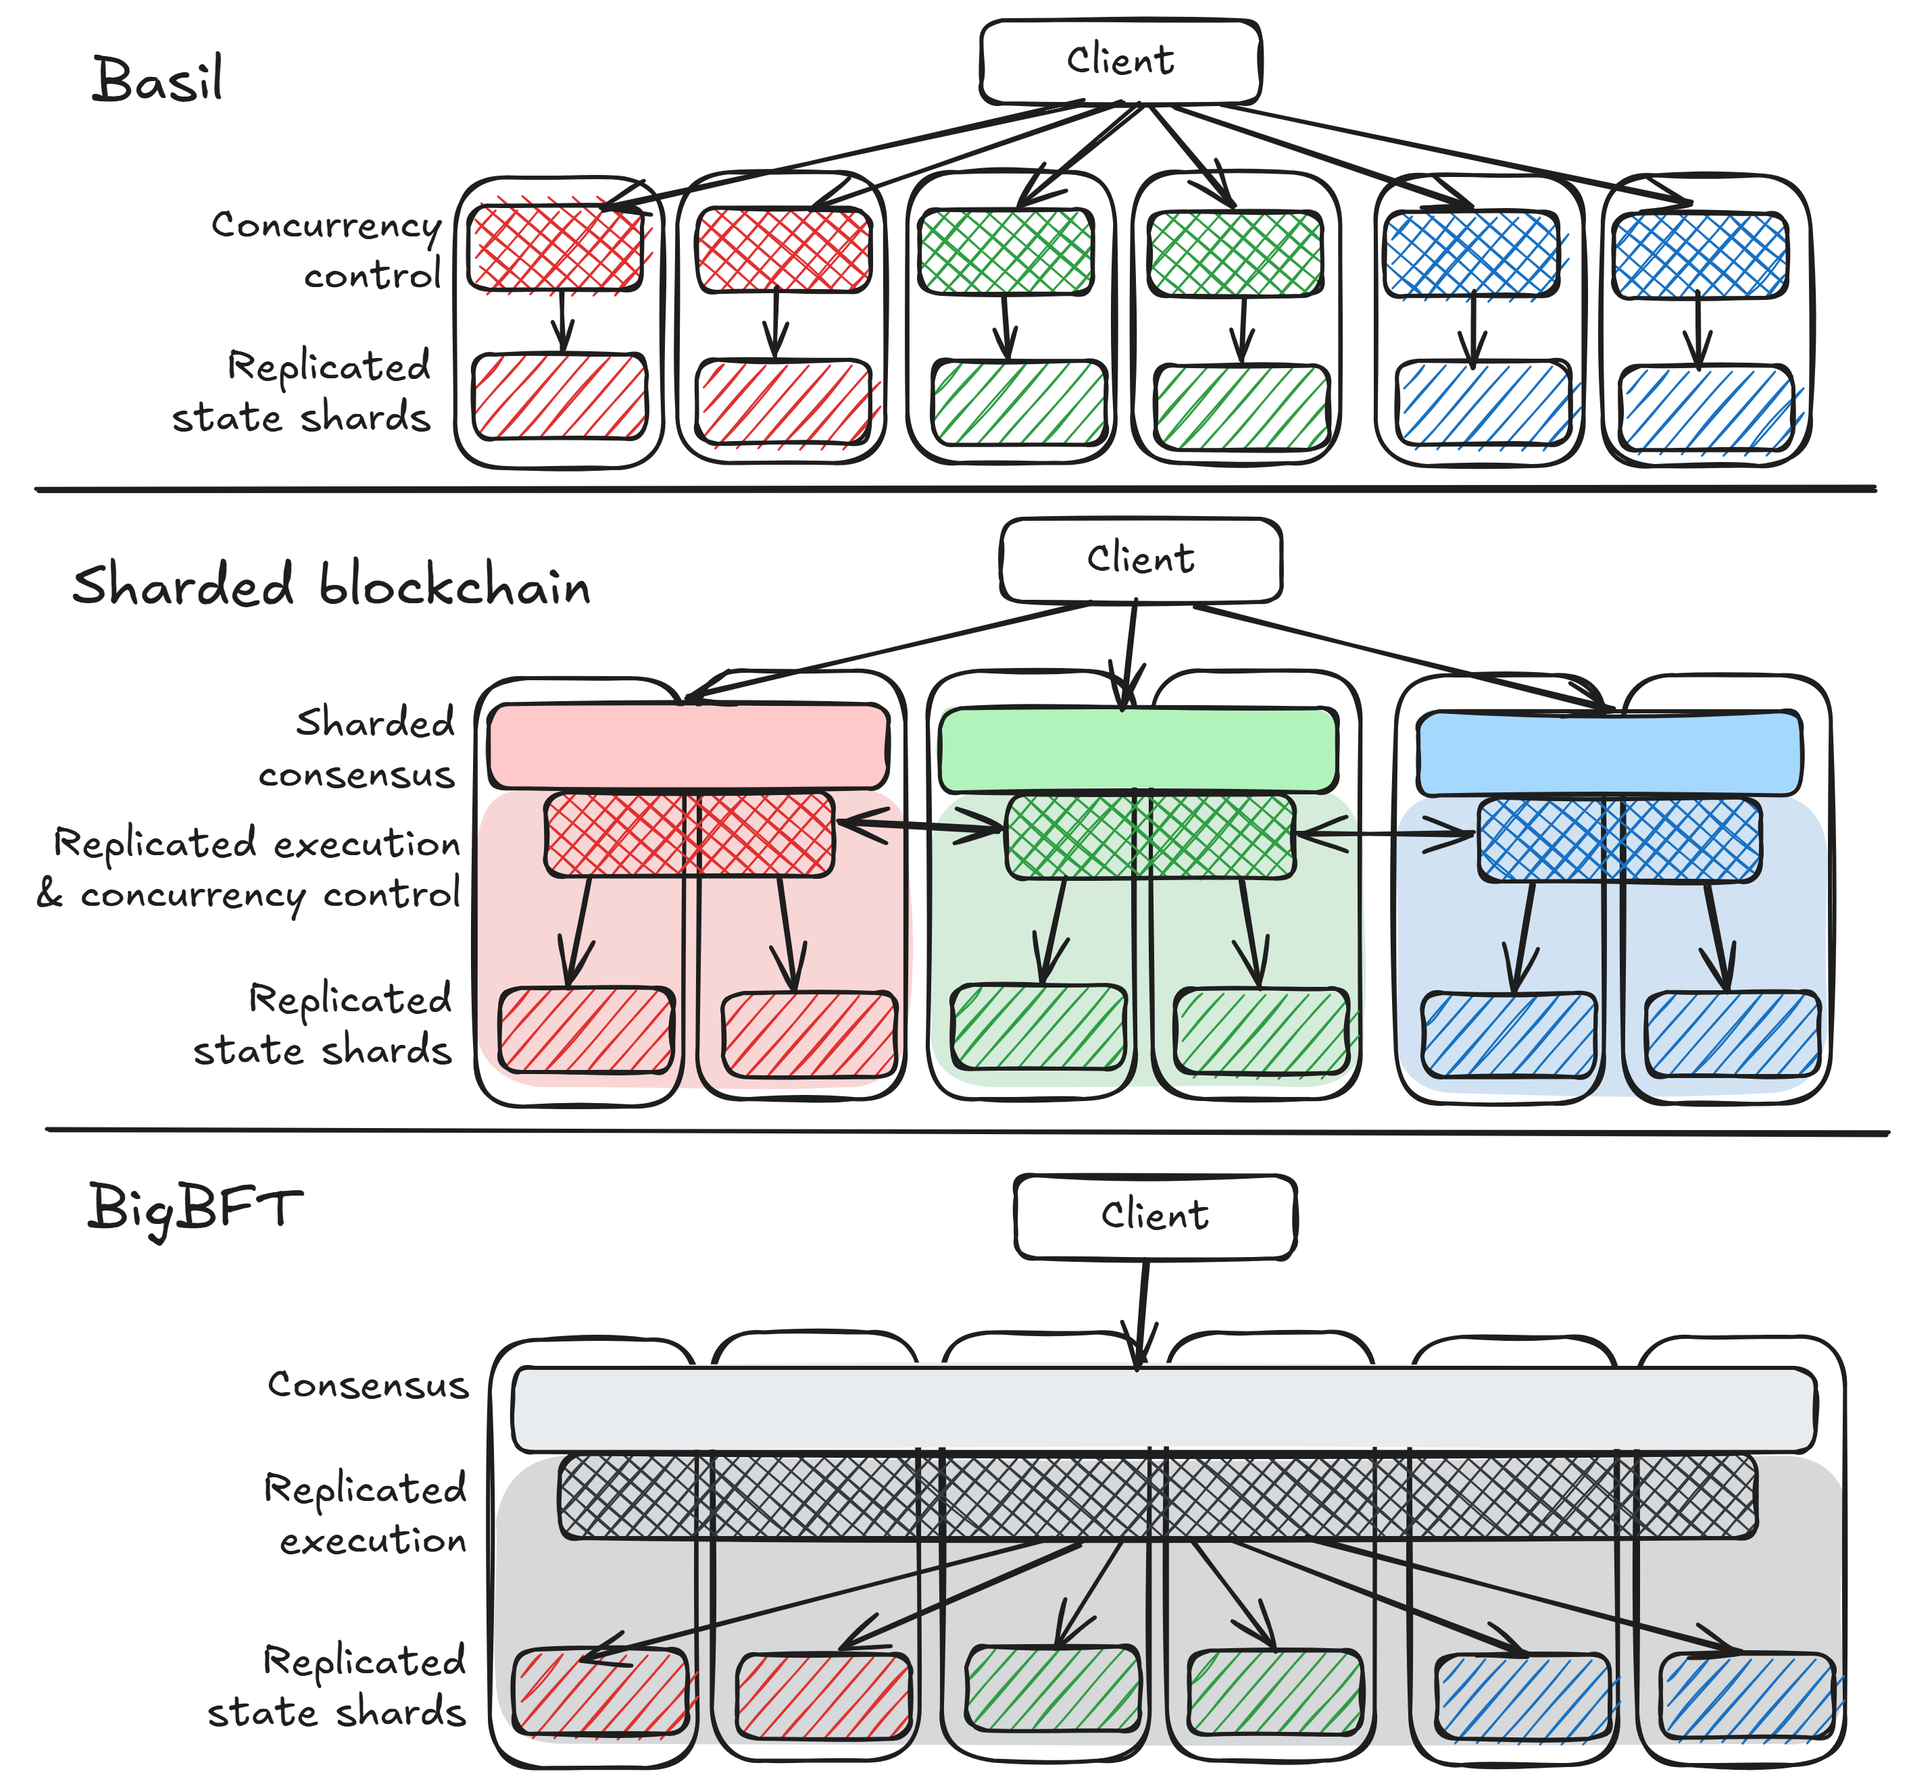
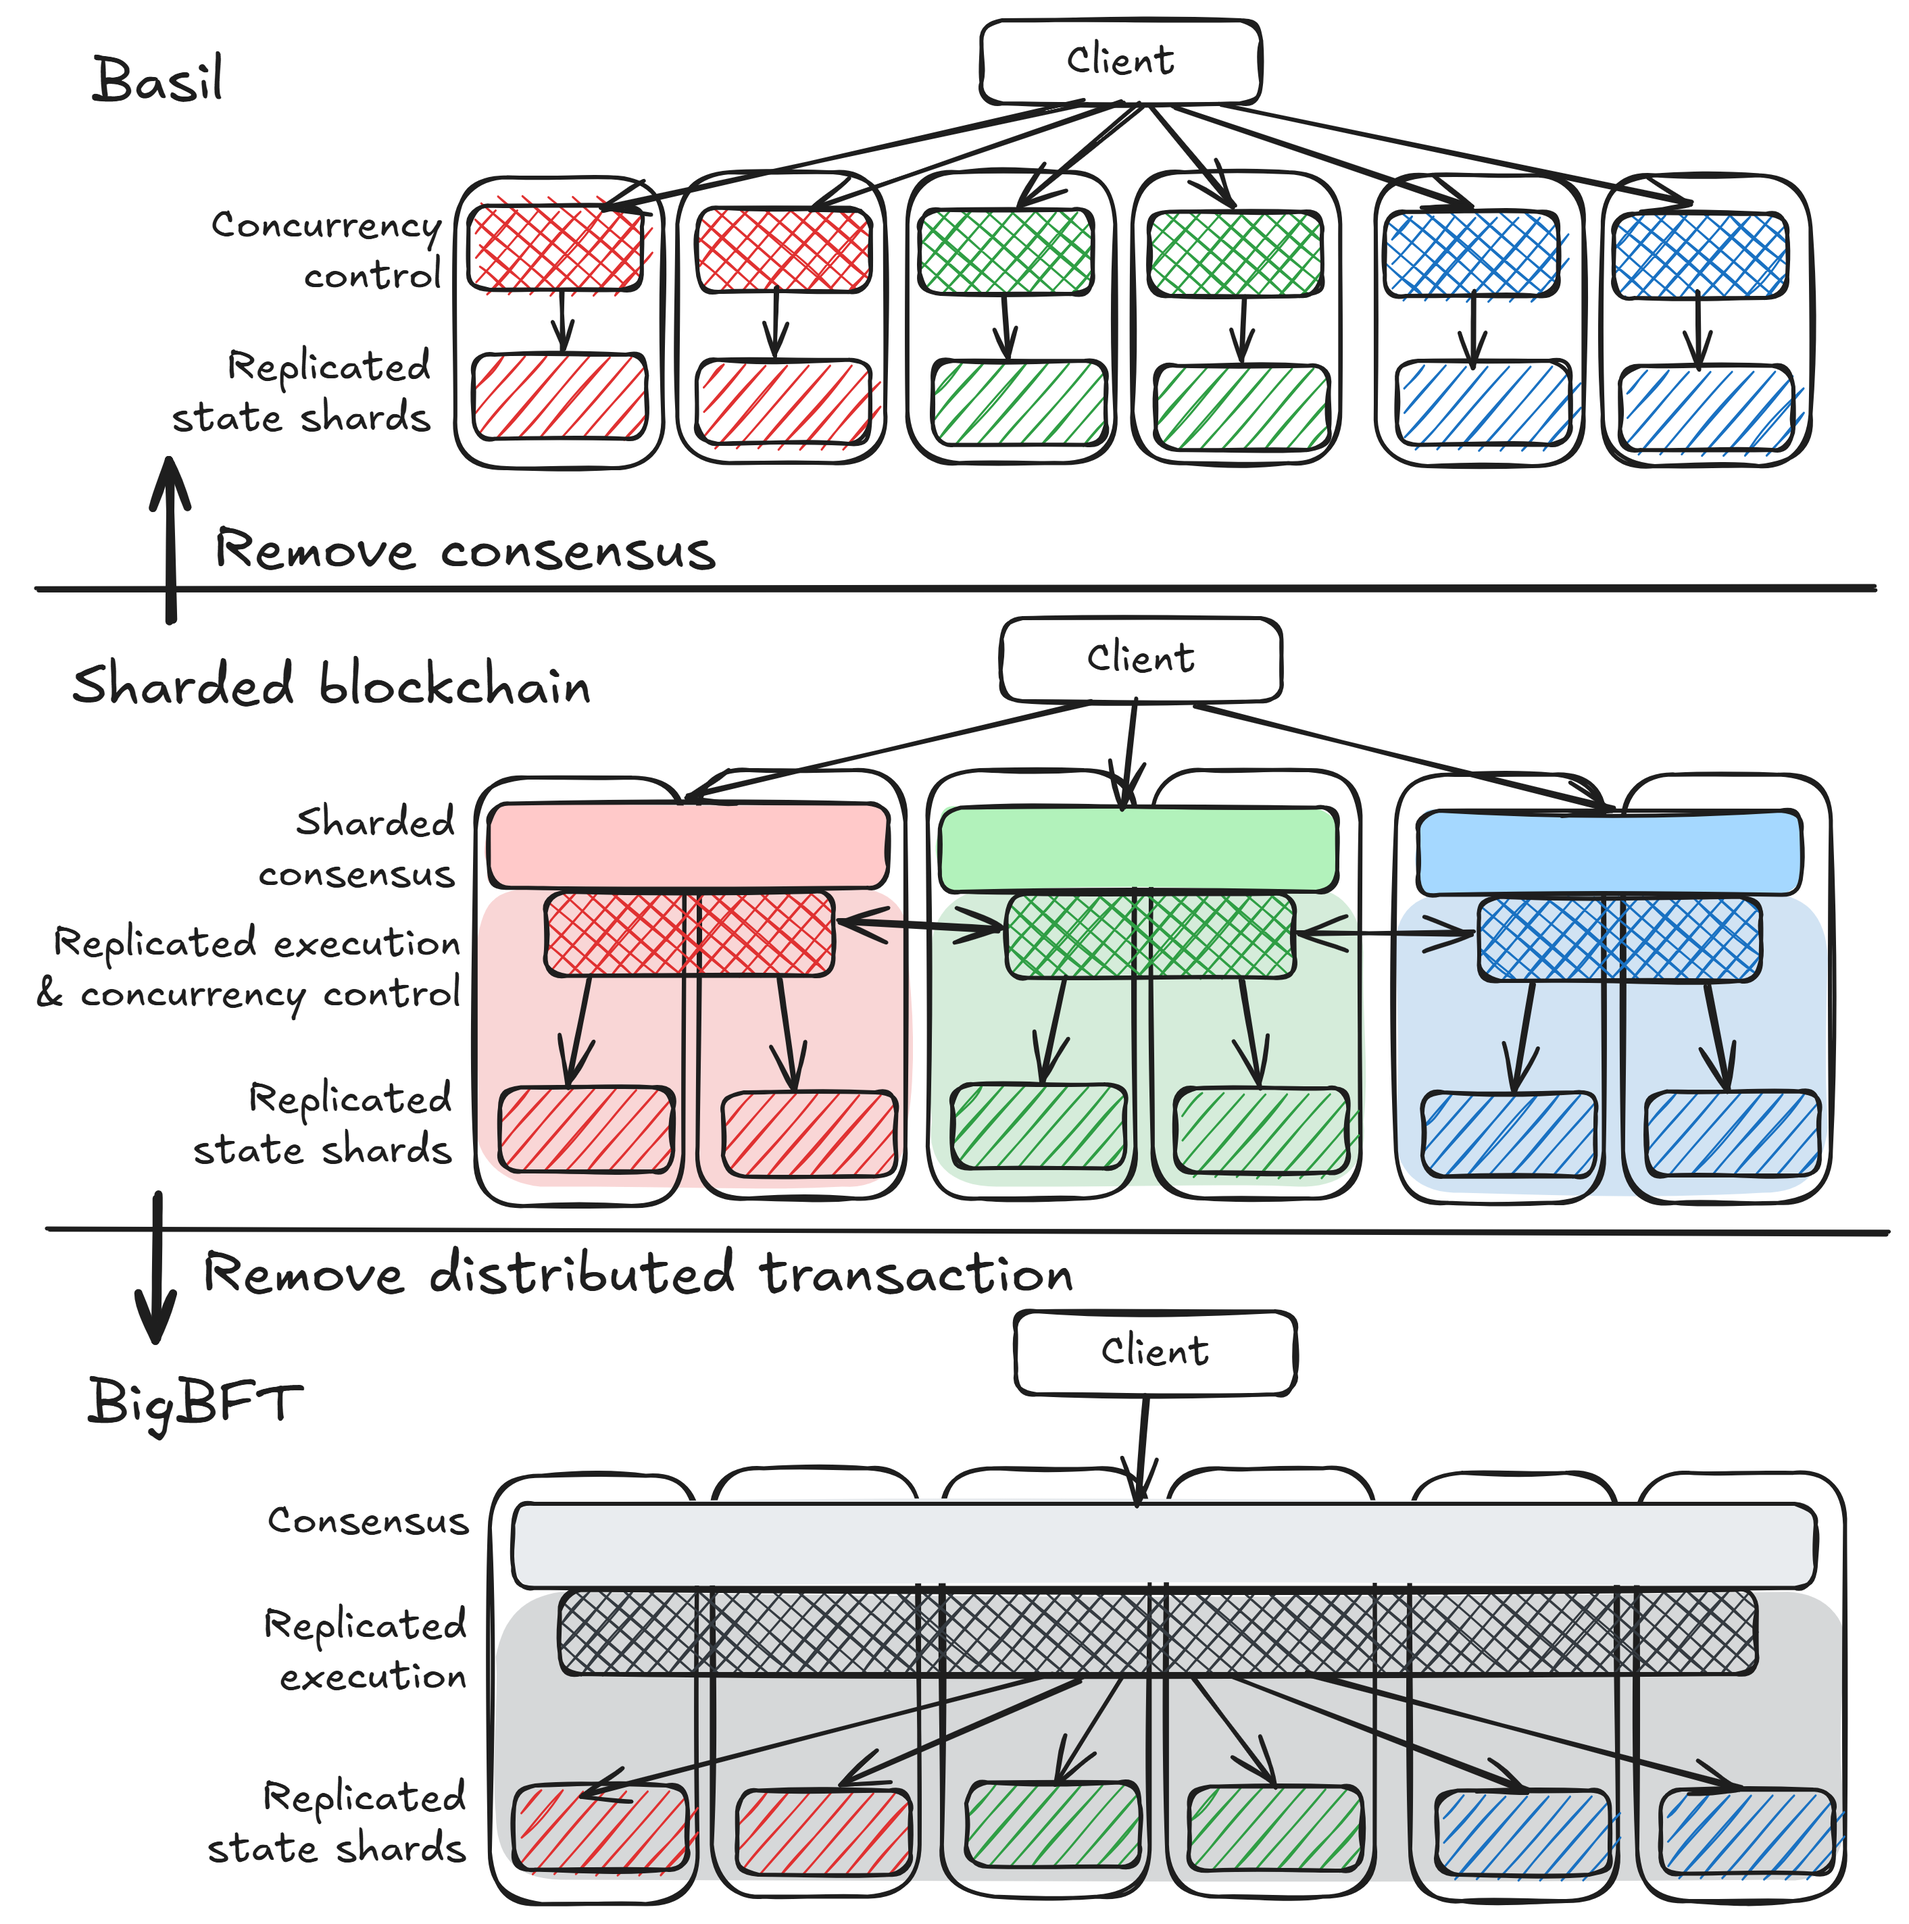
intro: revise pass

Changed region(s): [[0.0, 0.0, 0.9968, 0.9913], [0.0312, 0.031, 0.1246, 0.062]]

diff --git a/sections/introduction.tex b/sections/introduction.tex
@@ -21,27 +21,29 @@ The subtle performance of Basil, along with its complex protocol, both implies t
     \label{fig:approach-compare}
 \end{figure}
 
-In this work, we propose a novel approach of scaling BFT systems by sharding and parallelizing \emph{only} the state access.
+In this work, we propose a novel approach of scaling BFT systems by sharding the state but not the execution.
 We observe that consensus protocols have achieved significant improvements in performance and scalability recently.
 The most advanced consensus protocols can scale up throughput with the number of nodes while maintaining low latency, demonstrating that BFT systems can benefit from totally ordered operations without introducing performance bottlenecks.
-Moreover, as shown by previous works, the state access takes more than 80\% of the total processing time~\cite{li2024lvmt}.
-Based on these observations, we propose to shard the state data and balance the state access load across multiple nodes, while still employing a consensus protocol as the \emph{control plane} that maintains a total ordering of all operations and \emph{governs} parallel state access, as shown in \cref{fig:approach-compare}.
-Given a consistent sequence of blocks, the correct nodes can issue consistently concurrent state access requests and resolve intra- and inter-block dependencies identically without any further communication, a challenge unique to Basil due to its lack of total ordering.
-To scale the state access, each data partition is replicated by a fault-tolerant node shard, and the nodes of the other shards access it via network.
-Concurrent processing is achieved by pipelining the state access of different blocks and concurrently issuing state access requests to different shards, along with the concurrent dissemination and ordering of blocks by the consensus protocol.
+Moreover, as shown by previous works, the state access takes more than 80\% of the total execution time~\cite{li2024lvmt}.
+So we can achieve substantial performance gains as long as the state access is sharded and parallelized, even if the consensus and execution are not.
+Based on these observations, we propose to shard the state data and balance the state access load across multiple node shards, while still employing a consensus protocol as the \emph{control plane} that maintains a total ordering of all operations and \emph{governs} parallel state access.
 
-Following this approach, we design \sys, a robustly high performance BFT transactional store leveraging total ordering and data sharding.
+As shown in \cref{fig:approach-compare}, this work proposes the opposite idea to Basil regarding improving the redundant coordination overhead of intra-committee consensus and inter-committee distributed transaction protocols incurred by the sharded blockchains.
+Basil chooses to remove the consensus protocol and relies on clients to coordinate the distributed transactions, so its node shards have to tolerate arbitrarily many Byzantine clients, leading to various shortcomings in performance and security.
+In contrast, we demonstrate that BFT systems can also be scaled by removing the distributed transaction protocols and preserving the consensus protocol and the replicated state partitions.
+The intuition is that the consensus protocol isolates the performance implications that Byzantine clients can cause, and the replicated nodes, executing a totally ordered sequence of transactions, are the only ``clients'' that access the state shards.
+Since the majority of the nodes are correct and replicate the same state access sequence, they can be treated as a single \emph{logical} client submitting transactions per block execution, so the shards can be simple data plane that does not need to handle any concurrent transaction or Byzantine clients.
+At the same time, the nodes receive the same total order of transactions from the consensus protocol, so they can resolve the dependencies and maintain intermediate states locally and issue consistent state access requests to the shards independently without the need of further coordination.
+
+Following this intuition, we design \sys, a robustly high performance BFT transactional store leveraging total ordering and data sharding.
 \sys replicates each state partition to different node shards, each of which can tolerate $f$ Byzantine faults over a total of $3f+1$ nodes.
-This data partition scheme is identical to the ones of Basil and prior sharded blockchains, guaranteeing the same overhead of state maintenance.
+This data partition scheme is identical to the ones of Basil and prior sharded blockchains, guaranteeing the same state maintenance complexity.
 However, in \sys, the nodes from all shards participate in the \emph{same} consensus protocol, ordering all transactions before they are executed by \emph{all} nodes.
-The \sys nodes then execute the transactions in the same way of Basil's clients, by first fetching the state data from the corresponding shards, then executing the transactions and buffering the updates locally, and finally posting back the state updates.
-However, the shards of Basil must be able to handle arbitrarily concurrent state accesses from potentially Byzantine clients, while in \sys, a majority of the nodes issues replicated state access requests, and the shards can be simple data plane that always responds requests with current state data, as the nodes will resolve the dependencies and conflicts by themselves.
-Thus, by employing a consensus protocol, \sys not only greatly simplifies the protocol design and implementation, but also eliminates all the performance implications of Byzantine nodes and clients and contenting workloads, reliably achieving high performance in all scenarios with only $3f+1$ nodes.
-Comparing to sharded blockchains, the universal total ordering of \sys eliminates the necessity of cross-shard coordination, hence avoiding the associated performance and isolation penalties.
+\sys can employ any modern BFT consensus protocol to atomically broadcast transaction blocks.
+The \sys nodes then execute the blocks similarly to Basil's clients, by first fetching the state data from the corresponding shards, then executing the transactions and buffering the updates locally, and finally posting back the state updates.
+The nodes wait for $f+1$ matching fetching responses to ensure integrity and freshness of the fetched data, while the shards wait for $Cf+1$ matching updates before applying them to the state, where $C$ is the number of shards.
+\sys's design falls into the middle ground between Basil and sharded blockchains regarding modularity.
+Comparing to Basil's monolithic approach, \sys is much more modular that only modifies the state management layer of a blockchain to optimize the scalability bottleneck; comparing to sharded blockchains, \sys directly modifies into the core of the blockchain instead of building on top of it, avoiding the performance and expressiveness pitfalls of the full sharding approach.
 
 We present the full design of \sys in this short paper.
-\sys can employ any modern BFT consensus protocol to atomically broadcast transaction blocks.
-Then for executing each block, the nodes first fetch the necessary state data from the corresponding shards and wait for $f+1$ matching responses to ensure integrity and freshness.
-Then the nodes execute the transactions and buffer the state updates locally, and finally post back the state updates to the corresponding shards.
-The shards wait for $Cf+1$ matching updates before applying them to the state, where $C$ is the number of shards, and then the shards start to respond to the state access requests of the next block.
 We plan to implement \sys and evaluate its performance in comparison to Basil and sharded blockchains, and we expect \sys to achieve comparable performance to Basil in the ideal case and significantly outperform all the other systems in the presence of Byzantine faults or skewed state accesses.
